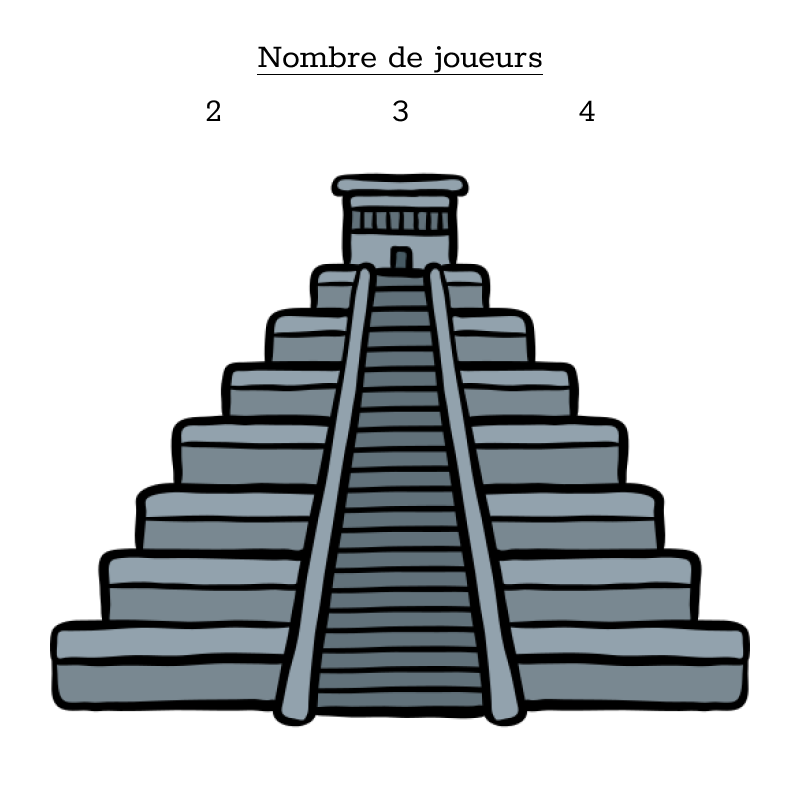
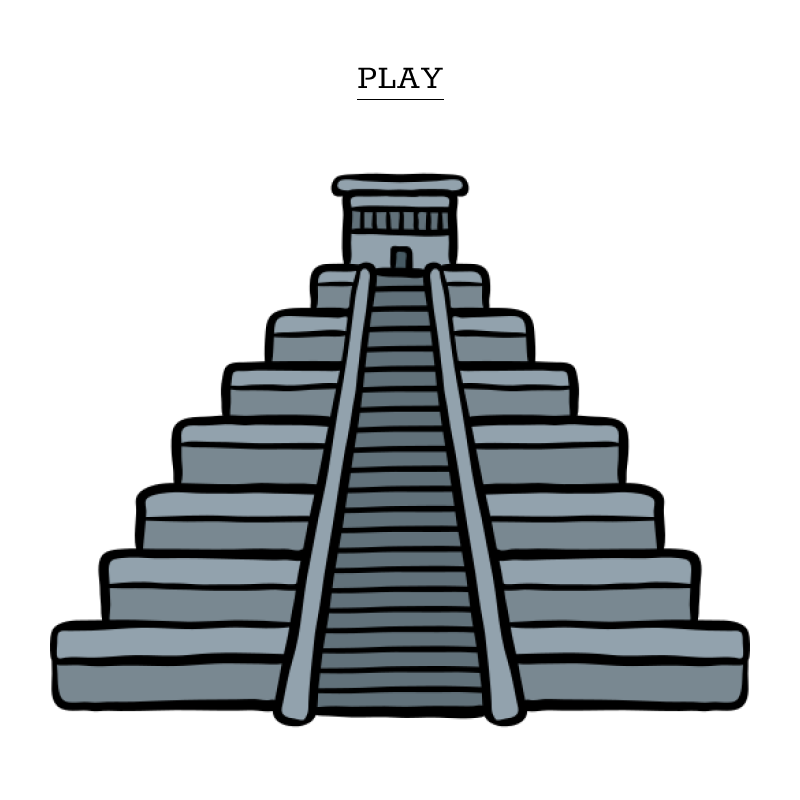
Affichage ressources pour chaque joueur, affichage de chaque joueur

Changed region(s): [[0.3125, 0.0625, 0.6875, 0.1562], [0.7188, 0.125, 0.75, 0.1562], [0.25, 0.125, 0.2812, 0.1562]]

diff --git a/src/main/java/teotihuacan/teotihuacan/Player.java b/src/main/java/teotihuacan/teotihuacan/Player.java
@@ -7,6 +7,7 @@ import java.util.Random;
 public class Player {
     public static List<Player> players = new ArrayList<>();
     static int nbPlayer;
+    static Player currentPlayer;
 
     private int numero;
     private String color;
@@ -15,6 +16,32 @@ public class Player {
     public Player(int numero, String color){
         setNumero(numero);
         setColor(color);
+    }
+
+    /**
+     * Renvoie le joueur correspondant au numéro cherché.
+     * @param nbPlayer : Numéro du joueur à chercher.
+     * @return : Le joueur recherché.
+     */
+    public static Player searchPlayerByNumber(int nbPlayer){
+        Player p = null;
+        for (Player player : players){
+            if (player.getNumero() == nbPlayer) p = player;
+        }
+        return p;
+    }
+
+    /**
+     * Compte le nombre de ressources du joueur.
+     * @param type : Type de la ressource à compter.
+     * @return : Le nombre de ressources.
+     */
+    public int countRessource(String type){
+        int compteur = 0;
+        for (Ressource r : ressources){
+            if (r.type.equals(type)) compteur++;
+        }
+        return compteur;
     }
 
     /**
@@ -29,6 +56,7 @@ public class Player {
             if (i == nbPlayer - 1) players.add(new Player(0,"RED"));
         }
         createOrder();
+        currentPlayer = players.get(0);
     }
 
     /**

diff --git a/src/main/java/teotihuacan/teotihuacan/MenuController.java b/src/main/java/teotihuacan/teotihuacan/MenuController.java
@@ -6,6 +6,8 @@ import javafx.scene.layout.Pane;
 import javafx.stage.Stage;
 import javafx.fxml.FXML;
 
+import static teotihuacan.teotihuacan.Main.gameView;
+import static teotihuacan.teotihuacan.Main.primaryStage;
 import static teotihuacan.teotihuacan.Player.*;
 
 public class MenuController {
@@ -25,34 +27,8 @@ public class MenuController {
         stage1.show();
     }
 
-
-
     @FXML
-    protected void on2PlayersClick() {
-        System.out.println("2 joueurs");
-        nbPlayer = 2;
-
-        createPlayer();
-        attribuerRessourcesDepart();
-        printPlayer();
-
-        eclipse();
-    }
-
-    @FXML
-    protected void on3PlayersClick() {
-        System.out.println("3 joueurs");
-        nbPlayer = 3;
-
-        createPlayer();
-        attribuerRessourcesDepart();
-        printPlayer();
-
-        eclipse();
-    }
-
-    @FXML
-    protected void on4PlayersClick() {
+    protected void play() {
         System.out.println("4 joueurs");
         nbPlayer = 4;
 
@@ -60,6 +36,6 @@ public class MenuController {
         attribuerRessourcesDepart();
         printPlayer();
 
-        eclipse();
+        primaryStage.setScene(gameView);
     }
 }

diff --git a/src/main/java/teotihuacan/teotihuacan/Main.java b/src/main/java/teotihuacan/teotihuacan/Main.java
@@ -9,7 +9,7 @@ import java.io.IOException;
 
 public class Main extends Application {
     static Stage primaryStage;
-    Scene scene;
+    static Scene gameView;
     static Scene pyramide2J;
     static Scene pyramide3J;
     static Scene pyramide4J;
@@ -19,7 +19,10 @@ public class Main extends Application {
         primaryStage = stage;
 
         FXMLLoader fxmlLoader = new FXMLLoader(Main.class.getResource("menu.fxml"));
-        scene = new Scene(fxmlLoader.load(), 800, 800);
+        Scene menu = new Scene(fxmlLoader.load(), 800, 800);
+
+        FXMLLoader fxmlLoader1 = new FXMLLoader(Main.class.getResource("gameView.fxml"));
+        gameView = new Scene(fxmlLoader1.load(), 1200, 800);
 
         FXMLLoader fxmlLoader2 = new FXMLLoader(Main.class.getResource("pyramide2J.fxml"));
         pyramide2J = new Scene(fxmlLoader2.load(), 800, 800);
@@ -31,7 +34,7 @@ public class Main extends Application {
         pyramide4J = new Scene(fxmlLoader4.load(), 800, 800);
 
         stage.setTitle("Teotihuacan");
-        stage.setScene(scene);
+        stage.setScene(menu);
         stage.show();
 
         // Tests
